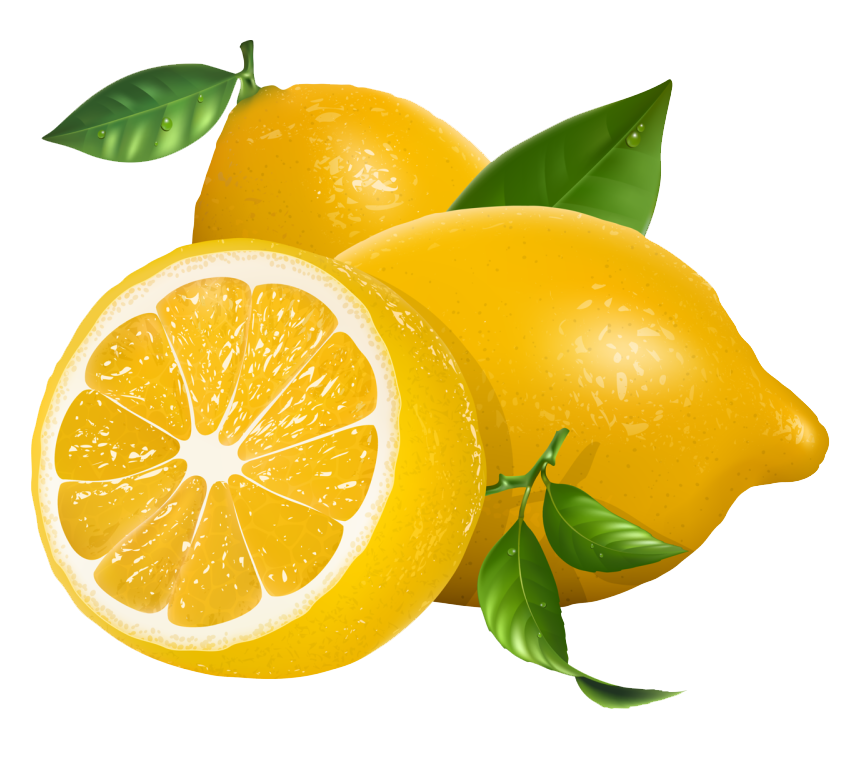
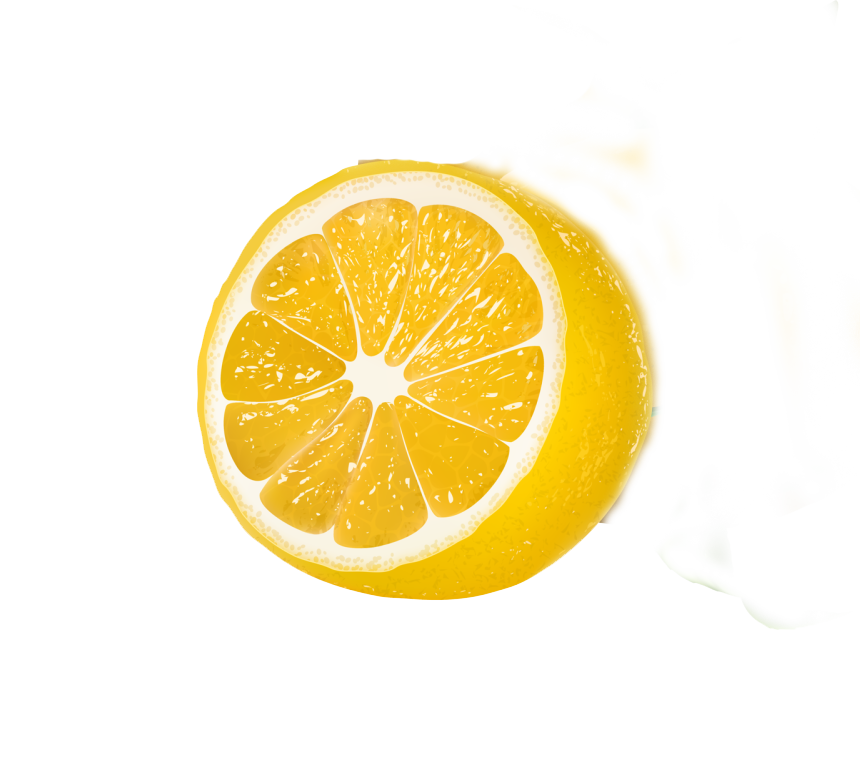
s

diff --git a/index.html b/index.html
@@ -2235,13 +2235,9 @@
         </div>
 
         <style>
-
-
-
             #sticker-e2871f03-1015-45e3-a553-23fc8fdffbed {
                 --block-width: 200;
             }
-
 
             #sticker-e2871f03-1015-45e3-a553-23fc8fdffbed {
                 top: 48%;